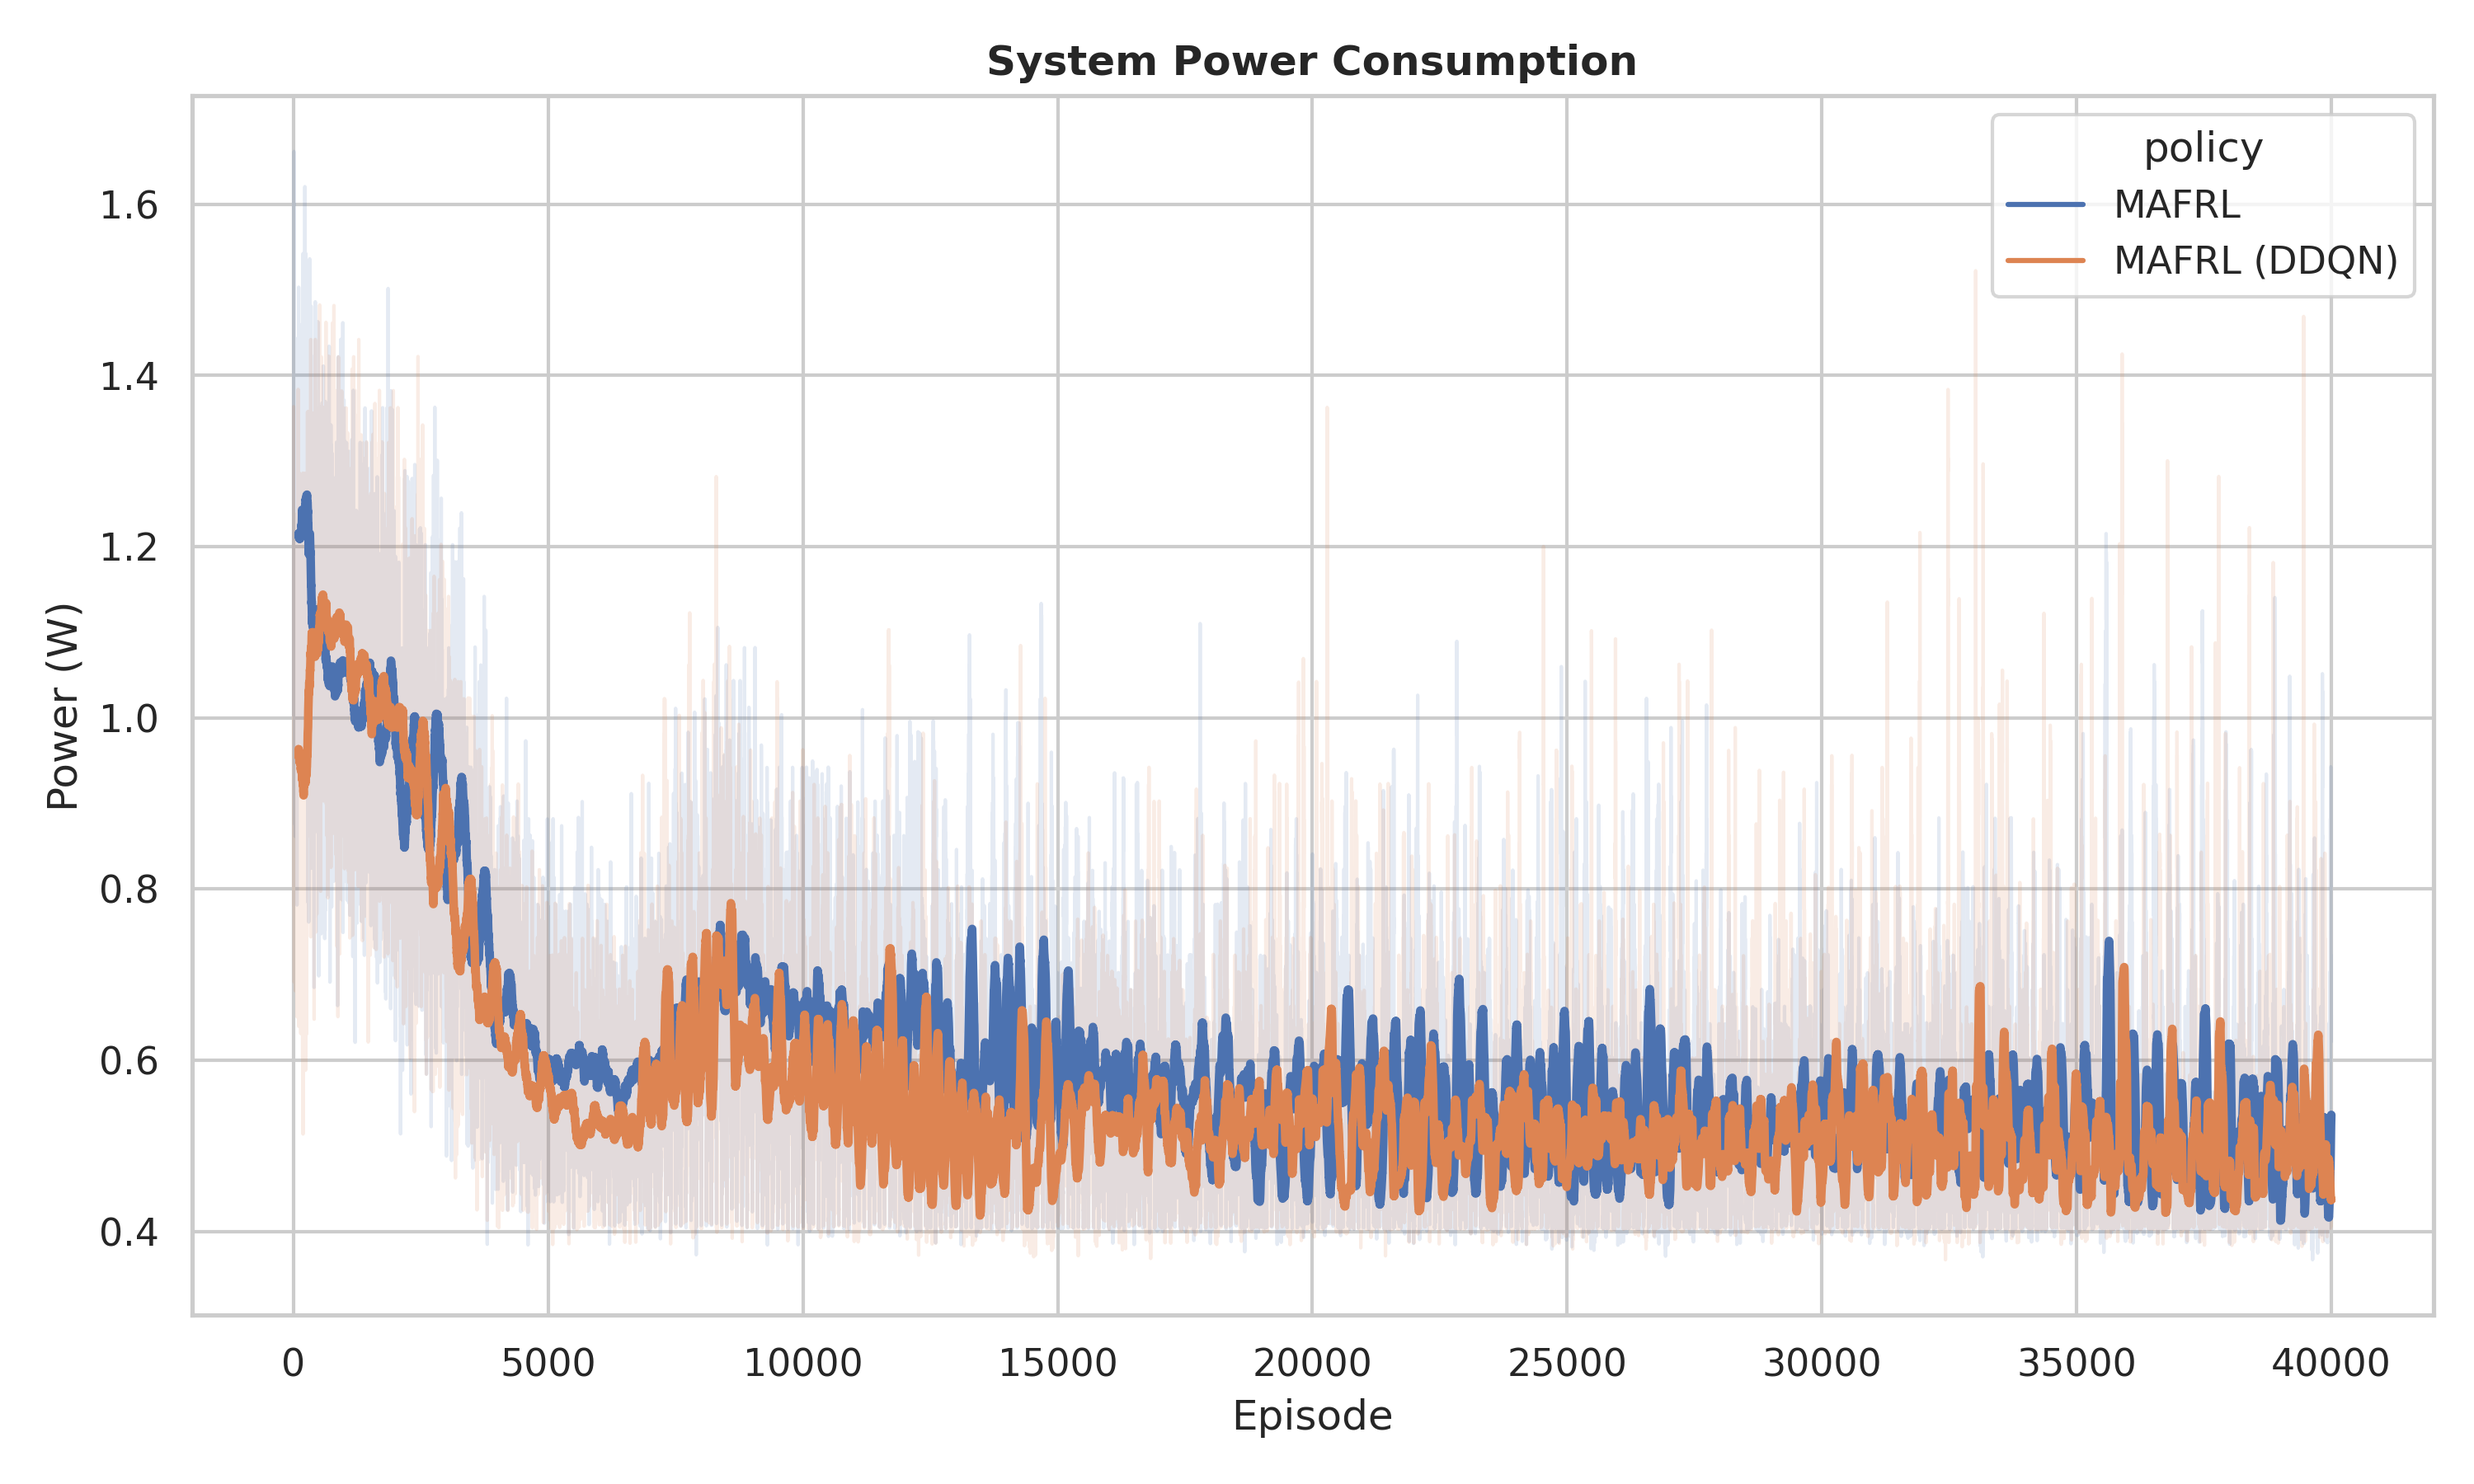
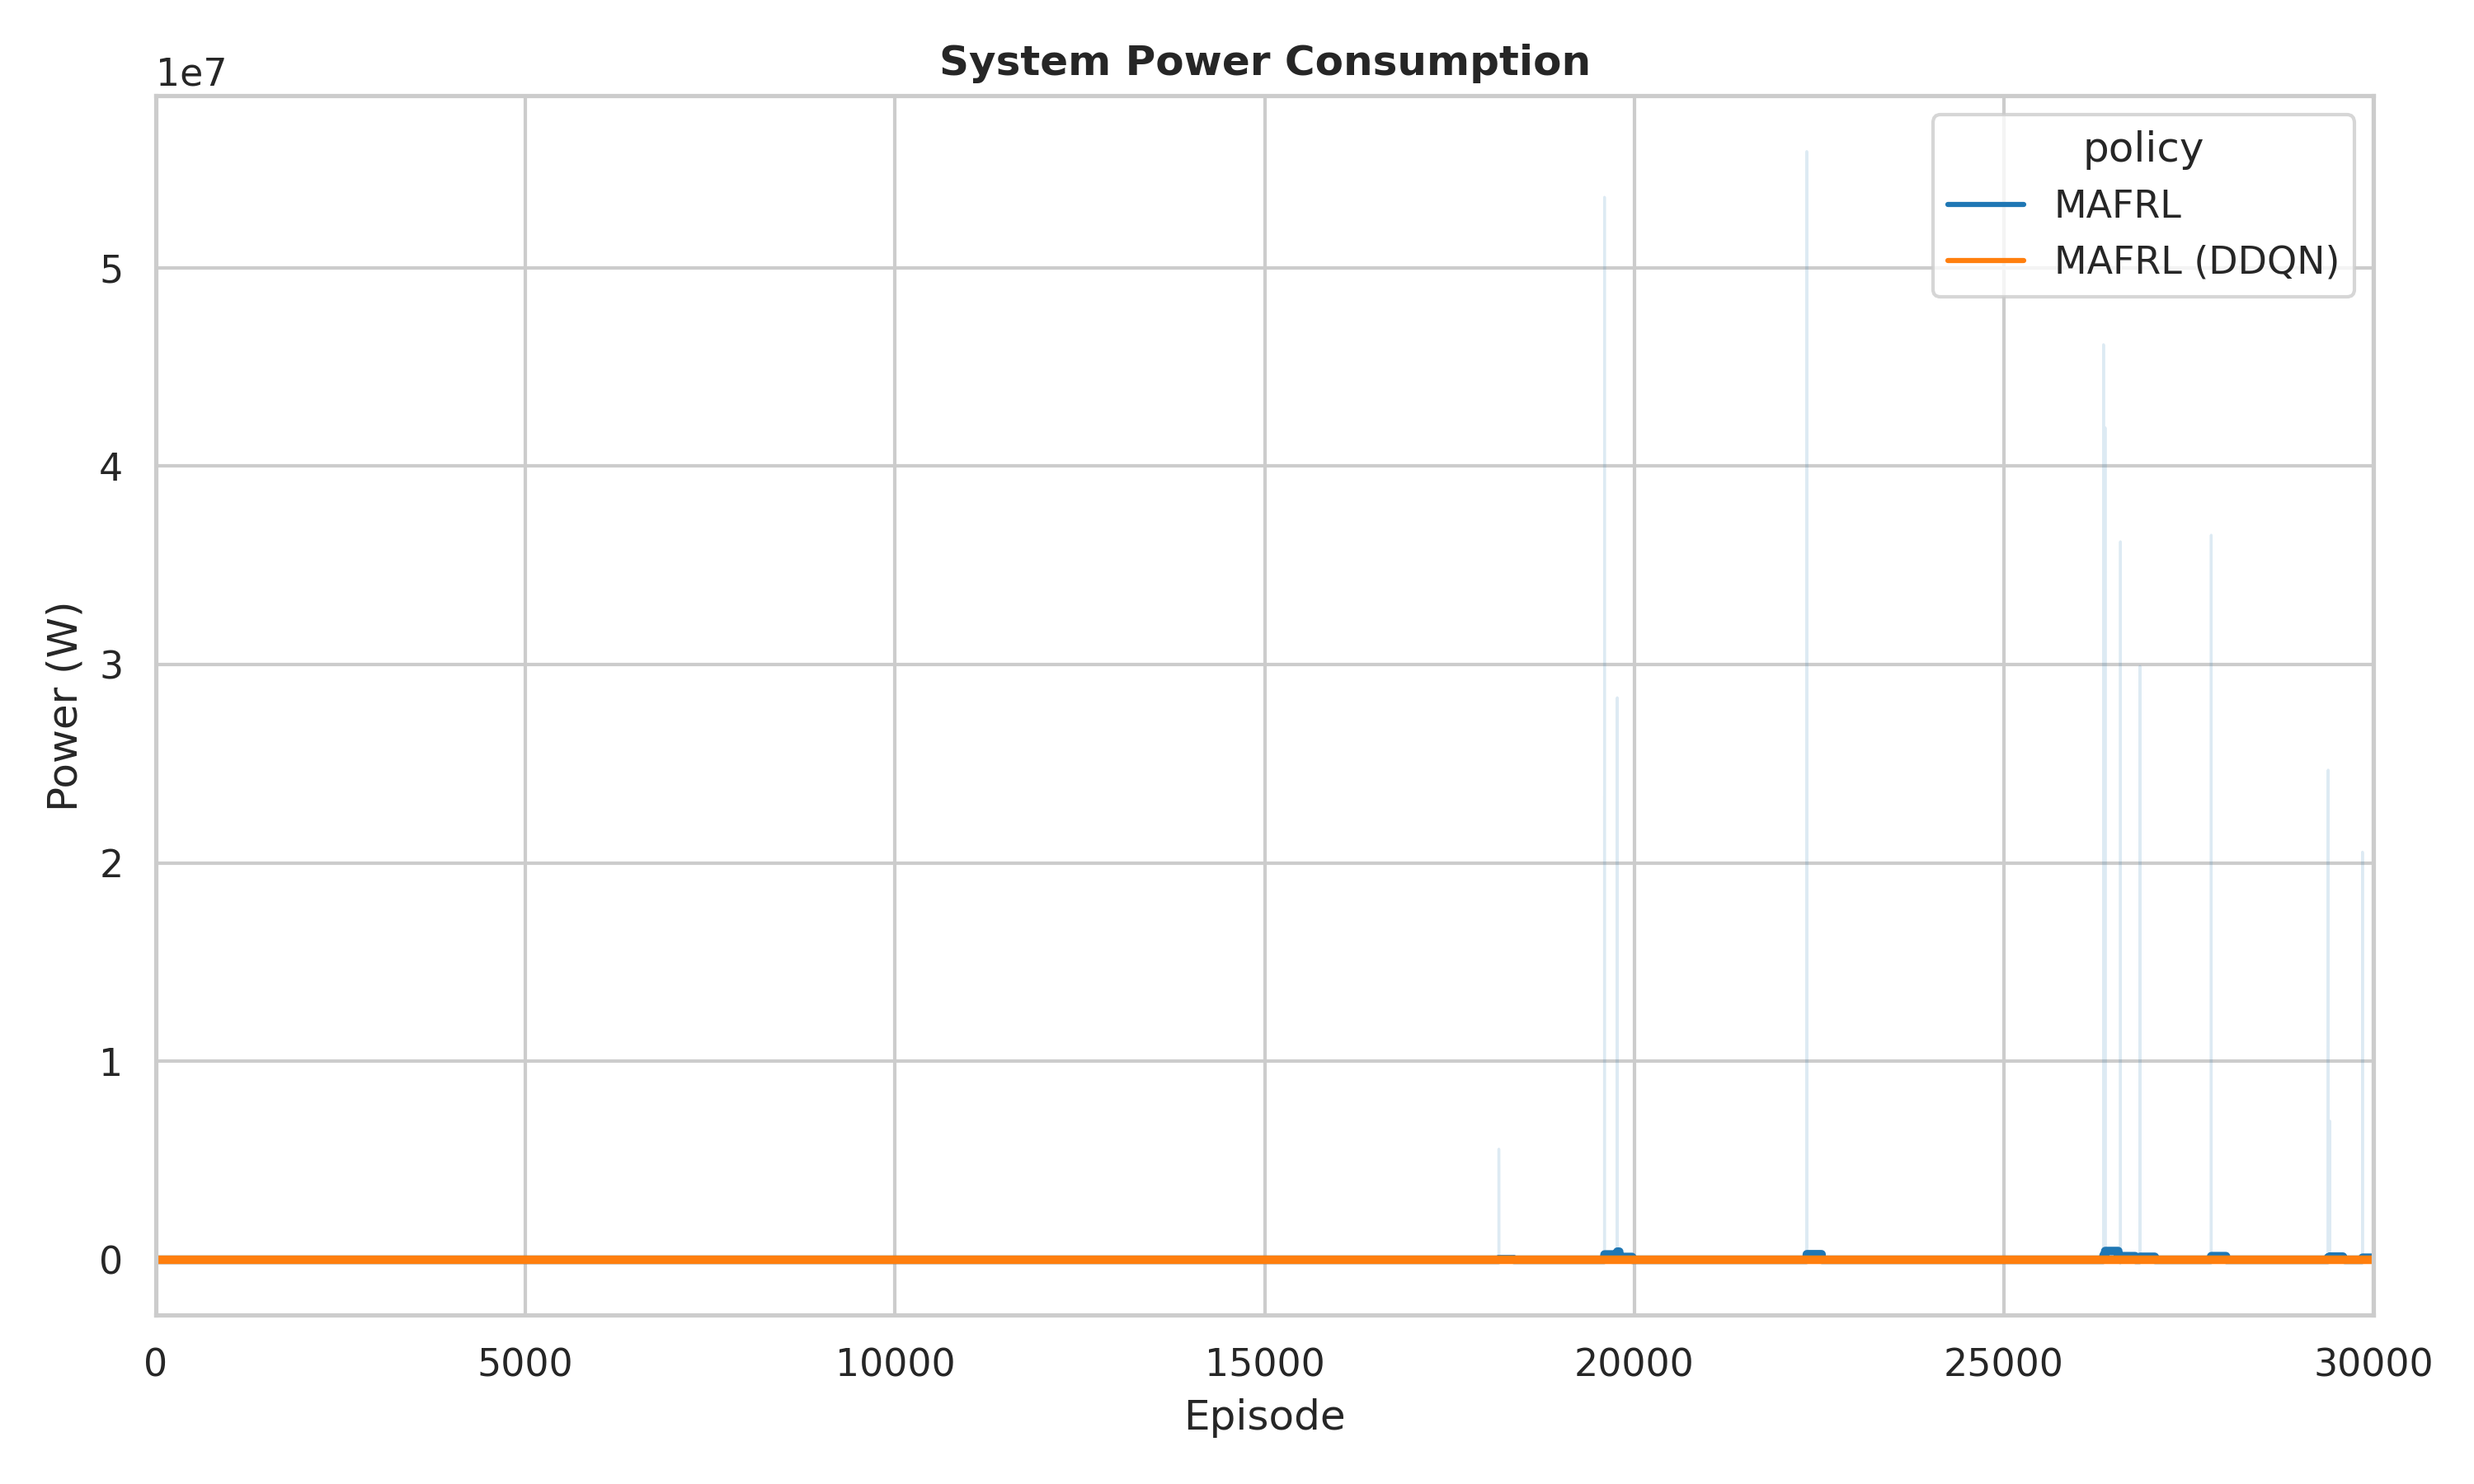
update plot

diff --git a/plot_train.py b/plot_train.py
@@ -7,11 +7,13 @@ import os
 # ⚙ PHẦN CẤU HÌNH
 # ==============================================================================
 FILES_TO_COMPARE = {
-    "MAFRL": "results/results_train_mafrl_new_ue_20_20251121_014527/mafrl_new_training_log.csv",
-    "MAFRL (DDQN)": "results/results_train_mafrl_ddqn_ue_20_20251121_015449/mafrl_ddqn_training_log.csv",
+    "MAFRL": "results/results_train_mafrl_ue_100_20251120_021325/mafrl_training_log.csv",
+    "MAFRL (DDQN)": "results/results_train_mafrl_ddqn_ue_100_20251120_002322/mafrl_ddqn_training_log.csv",
+    # "MAFRL": "results/results_train_mafrl_ue_20_20251121_014527/mafrl_training_log.csv",
+    # "MAFRL (DDQN)": "results/results_train_mafrl_ddqn_ue_20_20251121_015449/mafrl_ddqn_training_log.csv",
 }
 
-WINDOW_SIZE = 100
+WINDOW_SIZE = 200
 # Thay vì 1 tên file, ta chỉ định thư mục lưu
 OUTPUT_DIR = "results/results_train/"
 
@@ -59,29 +61,49 @@ plt.rcParams.update({"font.size": 11})
 
 
 def save_single_plot(data, x_col, y_col, title, ylabel, window, filename):
-    """Hàm vẽ và lưu 1 biểu đồ duy nhất."""
+    """Hàm vẽ và lưu 1 biểu đồ duy nhất (MÀU TƯƠNG PHẢN + ĐƯỜNG ĐẬM)"""
 
-    # Tạo figure mới cho mỗi biểu đồ (Kích thước 10x6 cho đẹp)
     plt.figure(figsize=(10, 6))
 
-    # 1. Tính Moving Average
+    palette = {
+        "MAFRL": "#1f77b4",  # Xanh dương (màu gốc mặc định)
+        "MAFRL (DDQN)": "#ff7f0e",  # Cam (màu gốc mặc định)
+    }
+
+    # 1. Moving Average mượt hơn
     data[f"{y_col}_smooth"] = data.groupby("policy")[y_col].transform(
-        lambda x: x.rolling(window=window).mean()
+        lambda x: x.rolling(window=window, min_periods=1).mean()
     )
 
-    # 2. Vẽ đường mờ (Raw) - Không hiện legend để đỡ rối
+    # 2. Vẽ đường raw rất mờ (bóng nền)
     sns.lineplot(
-        data=data, x=x_col, y=y_col, hue="policy", alpha=0.15, legend=False, linewidth=1
+        data=data,
+        x=x_col,
+        y=y_col,
+        hue="policy",
+        palette=palette,
+        alpha=0.15,
+        linewidth=0.8,
+        legend=False,
     )
 
-    # 3. Vẽ đường đậm (Smooth) - Có legend
-    ax = sns.lineplot(
-        data=data, x=x_col, y=f"{y_col}_smooth", hue="policy", linewidth=2.5
+    # 3. Vẽ đường smooth chính (ĐẬM + RÕ MÀU)
+    sns.lineplot(
+        data=data,
+        x=x_col,
+        y=f"{y_col}_smooth",
+        hue="policy",
+        palette=palette,
+        linewidth=2.5,
     )
 
     plt.title(title, fontweight="bold")
     plt.ylabel(ylabel)
     plt.xlabel("Episode")
+
+    # ✅ GIỚI HẠN TRỤC X TỐI ĐA 30000 EPISODES
+    plt.xlim(0, 30000)
+
     plt.tight_layout()
 
     # Lưu file
@@ -89,7 +111,6 @@ def save_single_plot(data, x_col, y_col, title, ylabel, window, filename):
     plt.savefig(full_path, dpi=300)
     print(f"✅ Đã lưu ảnh: {full_path}")
 
-    # Đóng figure để giải phóng bộ nhớ (quan trọng khi chạy loop)
     plt.close()
 
 
